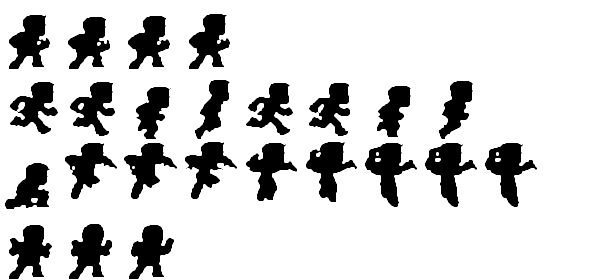
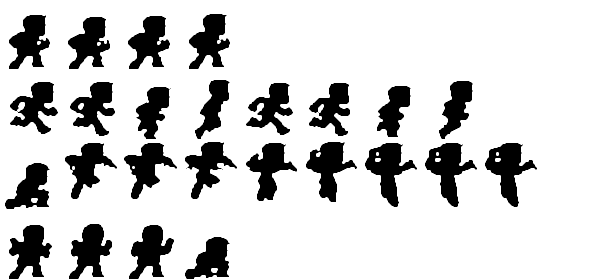
fix down animation... mess code to improve

Changed region(s): [[0.3, 0.8286, 0.39, 1.0]]

diff --git a/src/components/Player.ts b/src/components/Player.ts
@@ -14,6 +14,7 @@ export class Player extends Phaser.Physics.Arcade.Sprite {
   private acceleration: number = 500;
   private isJumping: boolean = false;
   private isDown: boolean = false;
+  private stillDown: boolean = false;
   private isDying: boolean = false;
   private key: string;
   private commands: boolean;
@@ -102,9 +103,9 @@ export class Player extends Phaser.Physics.Arcade.Sprite {
     let _downConfig: Phaser.Types.Animations.Animation = {
       key: this.key + "-down",
       frames: this.currentScene.anims.generateFrameNumbers(this.key, {
-        frames: [20]
+        frames: [20, 33]
       }),
-      frameRate: 0,
+      frameRate: 8,
       yoyo: false,
       repeat: 0
     };
@@ -208,6 +209,7 @@ export class Player extends Phaser.Physics.Arcade.Sprite {
       this.setFlipX(true);
       //@ts-ignore
     } else if (this.keys.get("DOWN").isDown) {
+      //console.log("down");
       //@ts-ignore
       this.body.setSize(20, 30);
       if (this.flipX) {
@@ -215,13 +217,23 @@ export class Player extends Phaser.Physics.Arcade.Sprite {
       } else {
         this.body.setOffset(25, 38);
       }
-
       //@ts-ignore
       this.body.setVelocityX(0);
       //@ts-ignore
       this.body.setAccelerationX(0);
+
       this.isDown = true;
-    } else {
+    } else if (
+      //@ts-ignore
+      !this.keys.get("DOWN").isDown &&
+      //@ts-ignore
+      !this.keys.get("LEFT").isDown &&
+      //@ts-ignore
+      !this.keys.get("RIGHT").isDown &&
+      //@ts-ignore
+      !this.keys.get("UP").isDown
+    ) {
+      //console.log("not key");
       this.body.setSize(20, 48);
       if (this.flipX) {
         this.body.setOffset(15, 20);
@@ -234,6 +246,7 @@ export class Player extends Phaser.Physics.Arcade.Sprite {
       //@ts-ignore
       this.body.setAccelerationX(0);
       this.isDown = false;
+      this.stillDown = false;
     }
 
     if (
@@ -283,10 +296,13 @@ export class Player extends Phaser.Physics.Arcade.Sprite {
     } else if (
       this.body.velocity.x === 0 &&
       !this.isJumping &&
+      this.touchedPlatform == null &&
       this.isDown &&
-      this.touchedPlatform == null
+      !this.stillDown
     ) {
-      this.anims.play(this.key + "-down", true);
+      //console.log("down anim");
+      this.stillDown = true;
+      this.anims.play(this.key + "-down", false);
     } else if (
       //@ts-ignore
       this.keys.get("UP").isDown &&
@@ -301,11 +317,14 @@ export class Player extends Phaser.Physics.Arcade.Sprite {
       this.anims.play(this.key + "-search", true);
     } else if (
       //@ts-ignore
-      this.body.onFloor() ||
-      //@ts-ignore
-      this.touchingPlatform ||
-      //@ts-ignore
-      this.body.blocked.down
+      (this.body.onFloor() ||
+        //@ts-ignore
+        this.touchingPlatform ||
+        //@ts-ignore
+        this.body.blocked.down) &&
+      !this.isDown &&
+      !this.isJumping &&
+      !this.isSearching
     ) {
       //console.log("idle");
       this.anims.play(this.key + "-idle", true);
